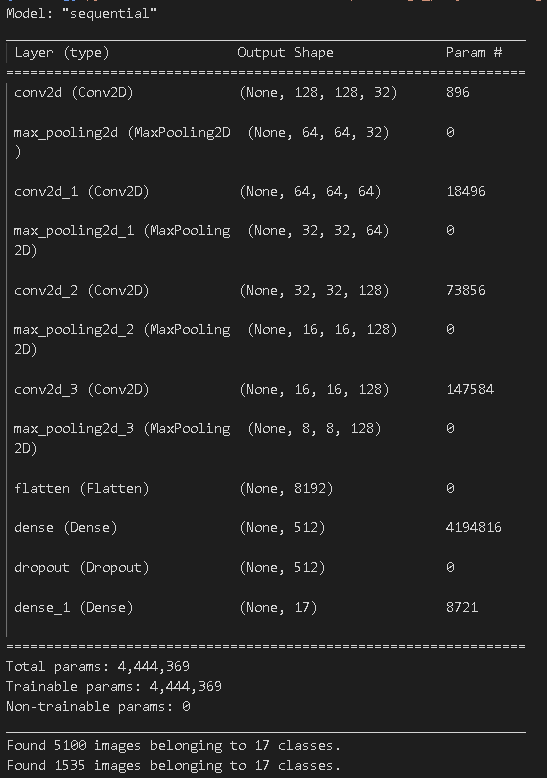
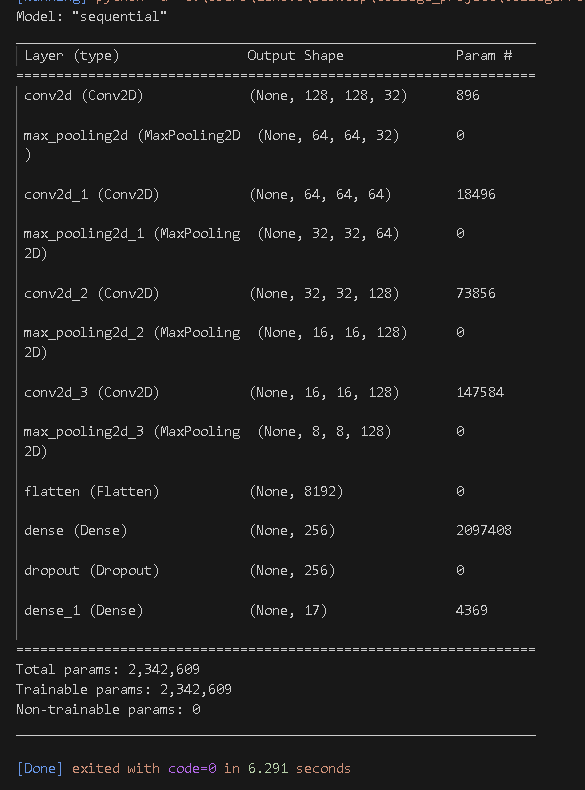
addin features

diff --git a/streamlit.py b/streamlit.py
@@ -14,7 +14,7 @@ confusion_matrix = Image.open('confusion_matrix.png')
 
 # 1. as sidebar menu
 with st.sidebar:
-    selected2 = option_menu("Main Menu", ["Home", "recognize/start", 'accuracy graph', 'loss graph', 'confusion matrix'],
+    selected2 = option_menu("Main Menu", ["Home", "Start/Recognize", 'Accuracy graph', 'Loss graph', 'Aonfusion matrix'],
                             icons=['house', "camera", 'diagram-3', 'diagram-3', 'gear'], menu_icon="cast", default_index=0,
                             styles={
         "container": {"padding": "0!important", "background-color": "#fafafa"},
@@ -26,7 +26,7 @@ with st.sidebar:
 
 if selected2 == "Home":
     st.title("Welcome to sign language recognition system")
-if selected2 == "recognize/start":
+if selected2 == "Start/Recognize":
     st.title("Sign language recognition")
 
     # Load the model from disk
@@ -35,7 +35,7 @@ if selected2 == "recognize/start":
     json_file.close()
     loaded_model = model_from_json(model_json)
     loaded_model.load_weights("model5.h5")
-    st.write("Place your hand inside the rectangle")
+    st.write("Place your hand inside the blue rectangle box.")
 
     # Start the webcam and set the region of interest
     cap = cv2.VideoCapture(0)
@@ -102,12 +102,12 @@ if selected2 == "recognize/start":
     cv2.destroyAllWindows()
 
 
-if selected2 == "accuracy graph":
+if selected2 == "Accuracy graph":
     st.image(accuracy, caption='Accuracy graph image')
 
-if selected2 == "loss graph":
+if selected2 == "Loss graph":
     st.image(loss, caption='Loss graph image')
 
-if selected2 == "confusion matrix":
+if selected2 == "Confusion matrix":
     st.image(confusion_matrix, caption='Confusion matrix image')
 

diff --git a/collect_data.py b/collect_data.py
@@ -22,9 +22,6 @@ if not os.path.exists("data"):
     os.makedirs("data/train/I")
     os.makedirs("data/train/J")
     os.makedirs("data/train/N")
-
-   
-   
     # test folder
     os.makedirs("data/test")
     os.makedirs("data/test/0")
@@ -44,7 +41,6 @@ if not os.path.exists("data"):
     os.makedirs("data/test/I")
     os.makedirs("data/test/J")
     os.makedirs("data/test/N")
-
 
 mode = 'test'
 directory = 'data/'+mode+'/'
@@ -74,7 +70,6 @@ while True:
          'I': len(os.listdir(directory+"/I")),
          'J': len(os.listdir(directory+"/J")),
          'N': len(os.listdir(directory+"/N"))
-         
         }
 
     # Printing the count in each set to the screen/frame
@@ -100,7 +95,6 @@ while True:
     cv2.putText(frame, "Null : "+str(count['N']), (10, 265), cv2.FONT_HERSHEY_PLAIN, 0.8, (255,0,0), 1)  
 
 
-    
     # Coordinates of the ROI on frame
     x1 = 400
     y1 = 100
@@ -108,10 +102,8 @@ while True:
     y2 = 320
     # Drawing the ROI on frame. The increment/decrement by 1 is to compensate for the bounding box
     cv2.rectangle(frame, (x1, y1), (x2, y2), (255,0,0) ,2)
-   
     
     cv2.imshow("Frame: Data Collection", frame)
-
 
     # Extracting the ROI
     roi = frame[y1:y2, x1:x2]
@@ -126,11 +118,8 @@ while True:
    
     _,thres = cv2.threshold(gaussian, 10, 255, cv2.THRESH_BINARY_INV + cv2.THRESH_OTSU)
     
-   
-   
     cv2.imshow("ROI", thres)
     #print(thres.shape)
-
     
     interrupt = cv2.waitKey(10)
     if interrupt & 0xFF == 27: # esc key

diff --git a/train.py b/train.py
@@ -26,9 +26,6 @@ classifier.add(Flatten())
 
 classifier.add(Dense(units = 256 , activation = 'relu'))
 classifier.add(Dropout(0.5))
-# classifier.add(Dense(units = 96 , activation = 'relu'))
-# classifier.add(Dropout(0.5))
-# classifier.add(Dense(units = 32 , activation = 'relu'))
 classifier.add(Dense(units = 17 , activation = 'softmax')) 
 
 classifier.summary()
@@ -38,8 +35,6 @@ classifier.summary()
 classifier.compile(optimizer=Adam(learning_rate=0.001), loss='categorical_crossentropy', metrics=['accuracy']) 
 # Define early stopping
 early_stopping = EarlyStopping(monitor='val_loss', patience=3)
-
-#Adam(learning_rate=0.001)
 
 # Step 2 - Preparing the train/test data and training the model
 
@@ -77,24 +72,12 @@ history = classifier.fit(
       validation_steps=test_set.samples/test_set.batch_size,
       shuffle=True,
       callbacks=[early_stopping])
-# history = classifier.fit(
-#       training_set,
-#       #steps_per_epoch=len(training_set)/training_set.batch_size,
-#       steps_per_epoch=training_set.samples/training_set.batch_size,
-#       epochs=15,
-#       validation_data=test_set,
-#       validation_split=0.2,
-#       #validation_steps=len(test_set)/test_set.batch_size,
-#       callbacks=[early_stopping])
-
 
 # Saving the model
 model_json = classifier.to_json()
 with open("model5.json", "w") as json_file:
     json_file.write(model_json) #model saved
 classifier.save_weights('model5.h5')     #Weights saved
-
-
 
 # Graph:
 import matplotlib.pyplot as plt

diff --git a/predict.py b/predict.py
@@ -2,7 +2,6 @@ from keras.models import model_from_json
 import operator
 import cv2
 
-
 # Loading the model
 json_file = open("model5.json", "r")
 model_json = json_file.read()
